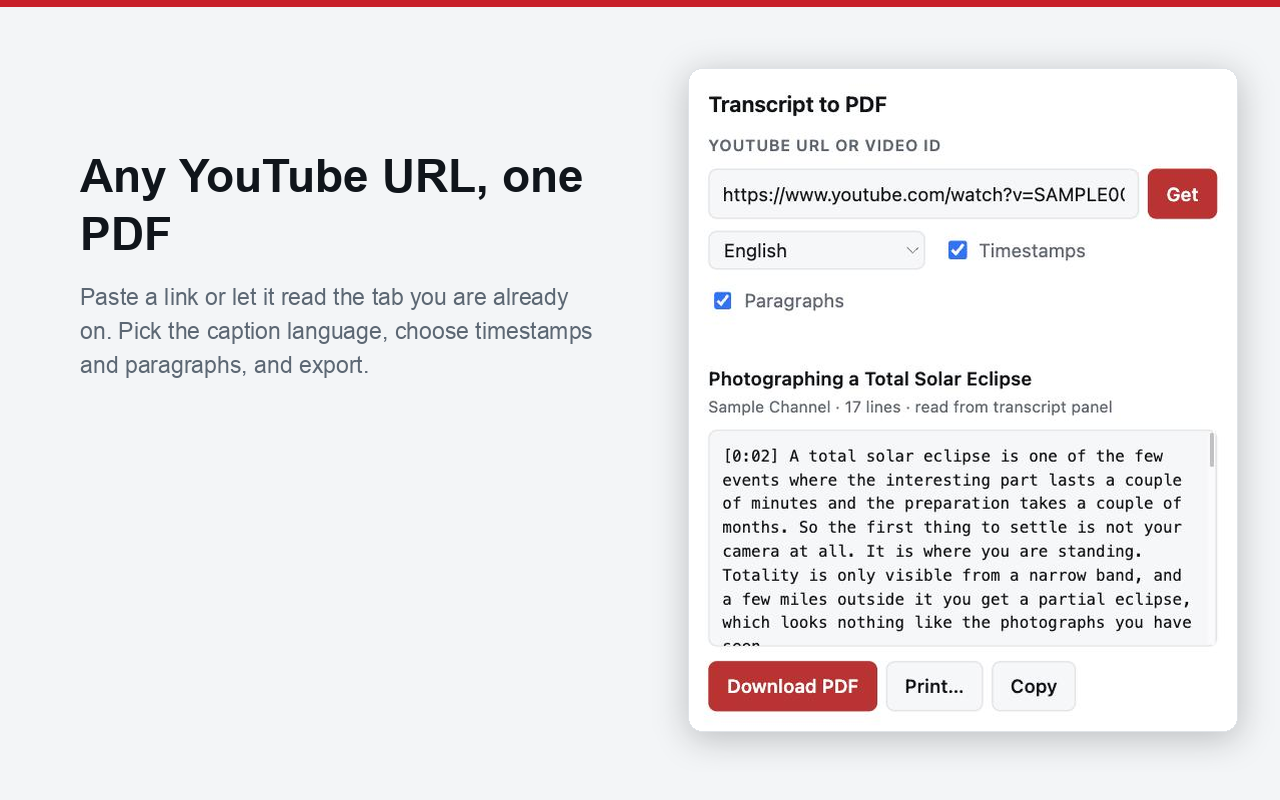
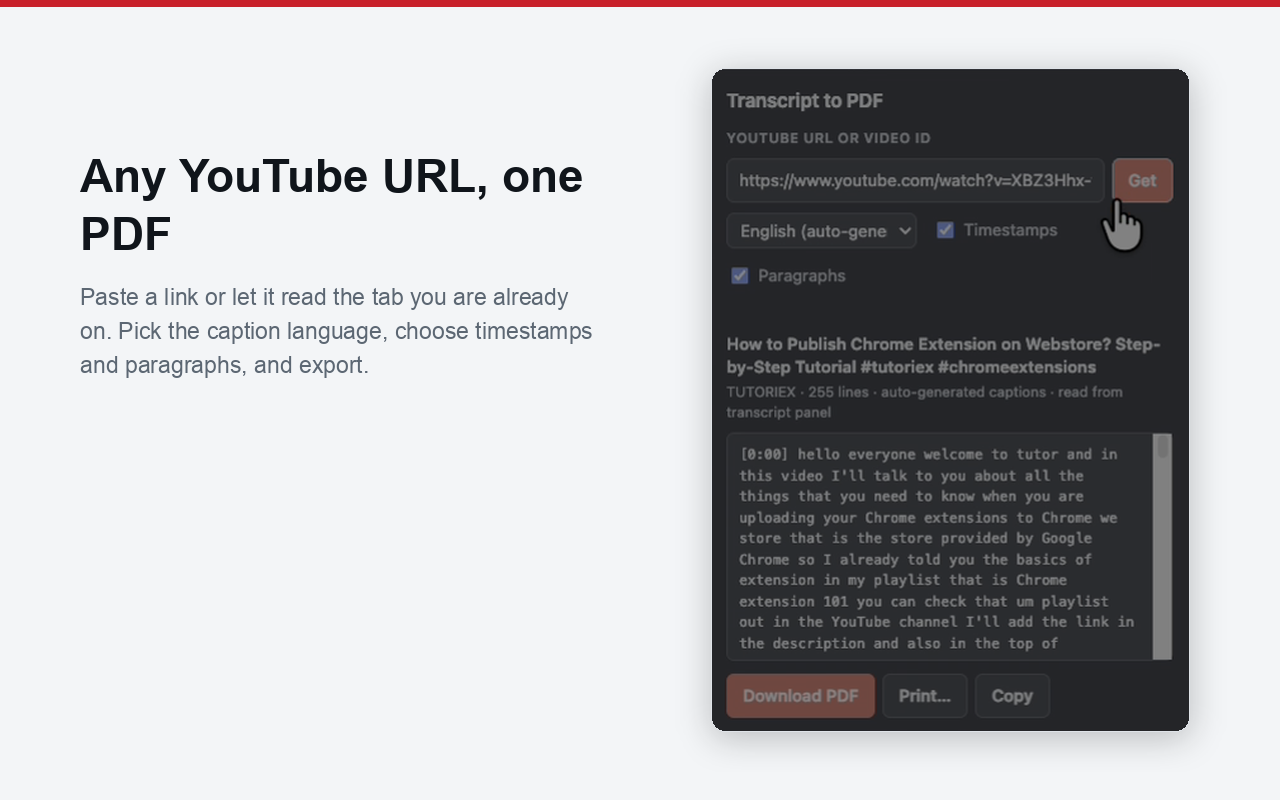
docs: use a live capture for screenshot 1 and add the submission runbook
The extension was run end to end against a real video and worked: the
transcript resolved through the transcript-panel strategy (255 lines,
auto-generated captions), the PDF downloaded, and the print path rendered. That
is the first verification of the assembled extension rather than its parts.

Screenshot 1 is now a frame from that run, cropped to the popup alone. The
composer prefers store-assets/raw-popup-live.png when present and falls back to
the harness render, so the pipeline still works without a browser pass.

The source recording and the full-window screenshot are deliberately not
committed. Both show the whole browser — tabs, bookmarks, profile, and
personalised recommendations — which does not belong in a public repository.
Only the cropped popup, which contains no personal data, is included.

One honest caveat recorded in CHROMEWEBSTORE.md: the recording was made with a
screen-capture overlay active, so the popup reads slightly muted against the
real UI. Calibrating it out was attempted and abandoned — the available
reference capture has the URL field focused and the popup in a different state,
so no reliable per-channel fit exists, and inventing one would misrepresent the
interface. The capture is authentic, just dim, and that is not a submission
blocker.

Adds docs/runbooks/chrome-web-store-submission.md: a field-by-field walkthrough
from developer registration through submission, with every value copy-paste
[…]

diff --git a/scripts/compose-store-screenshots.py b/scripts/compose-store-screenshots.py
@@ -6,6 +6,8 @@ browser screenshot pass, and lays them out on the 1280x800 canvas the store
 expects, along with the 440x280 small promo tile.
 
 Inputs (in ``store-assets/``):
+    raw-popup-live.png  optional hand-taken capture of the running popup;
+                        used for screenshot 1 when present
     raw-popup.jpg    full-viewport capture of harness-popup.html
     raw-viewer.jpg   full-viewport capture of harness-viewer.html
     raw-pdf.png      page 1 of sample-transcript.pdf, rendered by ``sips``
@@ -164,9 +166,19 @@ def flatten(image: Image.Image) -> Image.Image:
 
 
 def build_popup_shot() -> None:
-    """Screenshot 1: the popup, mid-export."""
-    # The popup renders at 988x1194 CSS pixels at the zoom used for capture.
-    art = require("raw-popup.jpg").crop(css_box(0, 0, 988, 1194))
+    """Screenshot 1: the popup, mid-export.
+
+    Prefers a capture of the running extension when one is available. Browser
+    automation cannot reach `chrome-extension://` URLs, so that capture has to
+    be taken by hand and dropped in as `raw-popup-live.png`; without it, the
+    harness render stands in.
+    """
+    live = ASSETS / "raw-popup-live.png"
+    if live.exists():
+        art = flatten(Image.open(live))
+    else:
+        # The popup renders at 988x1194 CSS pixels at the zoom used for capture.
+        art = require("raw-popup.jpg").crop(css_box(0, 0, 988, 1194))
     canvas = new_canvas()
 
     draw_copy(
@@ -176,7 +188,8 @@ def build_popup_shot() -> None:
         "language, choose timestamps and paragraphs, and export.",
         (80, 150, 520),
     )
-    paste_card(canvas, scaled(art, 664), (688, 68))
+    card = scaled(art, 664)
+    paste_card(canvas, card, (CANVAS[0] - card.width - 90, 68))
     canvas.convert("RGB").save(ASSETS / "screenshot-1-popup.png")
 
 

diff --git a/docs/runbooks/chrome-web-store-submission.md b/docs/runbooks/chrome-web-store-submission.md
@@ -1,0 +1,202 @@
+# Runbook: submitting to the Chrome Web Store
+
+Every value below is copy-paste ready from
+[CHROMEWEBSTORE.md](../../CHROMEWEBSTORE.md). Work through this in order; the
+dashboard will not let you submit until every required field is filled.
+
+**Budget about 45 minutes** for a first submission, most of it the one-time
+account setup. Review then takes anywhere from a few hours to a couple of weeks.
+
+---
+
+## Before you start
+
+You need:
+
+- A Google account you are happy to have associated with a published extension.
+- **US$5**, one time, non-refundable, for developer registration. A card is
+  required.
+- Two-factor authentication enabled on that Google account — the dashboard
+  requires it.
+
+---
+
+## Step 0 — Verify the build one last time
+
+```bash
+cd /Users/mitch/dev/youtube-transcript-to-pdf
+git pull
+npm run check
+```
+
+Expect: manifest OK, 31 tests passing, doc indexes OK.
+
+Then reload the unpacked extension at `chrome://extensions` and run it once
+against a real video. The packaged build is the same code, so if the unpacked
+one works, the zip works.
+
+Confirm the privacy policy is live — a dead URL is an automatic rejection:
+
+```bash
+curl -sI https://mithudso.github.io/youtube-transcript-to-pdf/PRIVACY.html | head -1
+```
+
+Expect `HTTP/2 200`.
+
+## Step 1 — Build the archive
+
+```bash
+npm run build
+unzip -l dist/youtube-transcript-to-pdf-1.0.0.zip
+```
+
+Expect 24 files: `manifest.json`, `icons/`, `src/`, `LICENSE`. If you see
+`docs/`, `test/`, `scripts/`, or `store-assets/`, stop — something changed in
+the packaging script.
+
+The file you will upload is:
+
+```
+dist/youtube-transcript-to-pdf-1.0.0.zip
+```
+
+## Step 2 — Register as a developer (one time)
+
+1. Go to <https://chrome.google.com/webstore/devconsole>.
+2. Sign in with the Google account you chose.
+3. Accept the Developer Agreement.
+4. Pay the US$5 registration fee.
+5. Under **Account** → set your **Publisher name** to `Mitchell Hudson` and
+   your **Contact email** to `mitch@tsiser.net`, then verify the email. Google
+   sends takedown and policy notices there, so it has to stay monitored.
+
+Publishing is blocked until the contact email is verified.
+
+## Step 3 — Create the item
+
+1. **Items** → **Add new item**.
+2. Drag in `dist/youtube-transcript-to-pdf-1.0.0.zip`.
+3. Wait for the upload to parse. It reads `manifest.json`, so the name and
+   version populate themselves.
+
+If it rejects the upload, the message names the manifest field at fault.
+
+## Step 4 — Store listing tab
+
+| Field | Value |
+| --- | --- |
+| Name | `Transcript to PDF for YouTube` (already filled from the manifest) |
+| Short description | The 117-character line under **Short Description** in CHROMEWEBSTORE.md |
+| Detailed description | The whole **Detailed Description** block. Paste as plain text — the store strips markdown, which is why it is already written without bullets |
+| Category | `Productivity` |
+| Language | `English` |
+
+Graphics, all from `store-assets/`:
+
+| Slot | File |
+| --- | --- |
+| Store icon (128×128) | `icons/icon-128.png` |
+| Screenshot 1 | `store-assets/screenshot-1-popup.png` |
+| Screenshot 2 | `store-assets/screenshot-2-pdf.png` |
+| Screenshot 3 | `store-assets/screenshot-3-viewer.png` |
+| Small promo tile (440×280) | `store-assets/promo-tile-small.png` |
+
+Leave the marquee tile empty; it is only used for featured placements.
+
+Additional fields:
+
+- **Homepage URL**: `https://github.com/mithudso/youtube-transcript-to-pdf`
+- **Support URL**: `https://github.com/mithudso/youtube-transcript-to-pdf/issues`
+- **Official YouTube video**: optional. The store takes a YouTube URL, not a
+  file, so the end-to-end recording would have to be uploaded to YouTube first.
+  Skip it for a first submission.
+
+## Step 5 — Privacy tab
+
+This is where submissions usually fail. Take it slowly.
+
+**Single purpose** — one sentence:
+
+```
+Exports the transcript of a YouTube video as a PDF file.
+```
+
+**Permission justifications** — one box per permission. Paste from the
+Permissions Justification table in CHROMEWEBSTORE.md. Every box needs a
+specific reason; "required for functionality" is rejected. The six are:
+
+`tabs`, `scripting`, `storage`, `downloads`, and host access to
+`https://www.youtube.com/*` and `https://m.youtube.com/*`.
+
+**Are you using remote code?** → **No, I am not using remote code.**
+
+Everything the extension runs is in the package. There are no dependencies, no
+CDN scripts, and no `eval`.
+
+**Data usage** — leave **every** checkbox unchecked. The extension collects
+nothing. Then tick all three certifications:
+
+- Data is not sold to third parties
+- Data is not used for purposes unrelated to the item's core functionality
+- Data is not used to determine creditworthiness or for lending purposes
+
+**Privacy policy URL**:
+
+```
+https://mithudso.github.io/youtube-transcript-to-pdf/PRIVACY.html
+```
+
+The policy text and these checkboxes must agree. Both say "nothing is
+collected", so they do.
+
+## Step 6 — Distribution tab
+
+- **Visibility**: Public
+- **Regions**: All regions
+- **Pricing**: Free
+
+## Step 7 — Submit
+
+1. Click **Submit for review**.
+2. If it offers **deferred publishing**, decide whether you want it to go live
+   automatically on approval or to publish it yourself. Automatic is fine here.
+3. Confirm.
+
+The item moves to **Pending review**.
+
+## Step 8 — After submitting
+
+- Review usually takes hours to days; extensions requesting broad permissions
+  take longer. This one requests narrow, well-justified permissions.
+- Decisions arrive at the contact email.
+- On approval, the listing goes live and the item gets a permanent extension ID
+  — **different from the unpacked development ID**.
+- Record the outcome in the Version History table in CHROMEWEBSTORE.md.
+
+## If it is rejected
+
+The rejection email names a policy section. Common causes for an extension
+shaped like this one, and what to do:
+
+| Rejection | Fix |
+| --- | --- |
+| Trademark / brand confusion | Already mitigated: the name is "for YouTube" rather than leading with it, and the icon is a document rather than a play triangle. If it still trips, the next lever is dropping "YouTube" from the name entirely. |
+| Permission not justified | Expand the specific box the email names. Say which user-visible feature breaks without it. |
+| Privacy policy mismatch | Re-read `PRIVACY.md` against the data-usage checkboxes. They must say the same thing. |
+| Screenshots do not show the product | Screenshot 1 is a capture of the running extension. If they want more, add a second live capture showing the saved PDF. |
+| Single purpose too broad | The stated purpose is already one sentence and narrow. Do not broaden it. |
+
+Fix, bump the version in **both** `manifest.json` and `package.json`, rebuild,
+and upload again. Record the rejection and the fix in the Rejection History
+table in CHROMEWEBSTORE.md.
+
+## Publishing an update later
+
+1. Bump the version in `manifest.json` and `package.json`.
+2. `npm run check && npm run build`
+3. Dashboard → the item → **Package** → upload the new zip.
+4. Update anything on the listing that changed, especially permissions.
+5. Submit for review again.
+
+The version must be strictly higher than the published one, or the upload is
+rejected.

diff --git a/CHROMEWEBSTORE.md b/CHROMEWEBSTORE.md
@@ -72,7 +72,7 @@ All generated by `scripts/build-store-assets.mjs` followed by
 | Asset | Dimensions | Status | Filename |
 |-------|-----------|--------|----------|
 | Store Icon [REQUIRED] | 128×128 PNG | ✅ Ready | `icons/icon-128.png` |
-| Screenshot 1 [REQUIRED] | 1280×800 | ✅ Ready | `store-assets/screenshot-1-popup.png` |
+| Screenshot 1 [REQUIRED] | 1280×800 | ✅ Ready (live capture) | `store-assets/screenshot-1-popup.png` |
 | Screenshot 2 [RECOMMENDED] | 1280×800 | ✅ Ready | `store-assets/screenshot-2-pdf.png` |
 | Screenshot 3 [RECOMMENDED] | 1280×800 | ✅ Ready | `store-assets/screenshot-3-viewer.png` |
 | Screenshot 4 | 1280×800 | ⬜ Not created | |
@@ -94,17 +94,21 @@ earlier play-triangle mark that read as YouTube's logo.
 3. **The Print path.** The printable viewer, which is how non-Latin scripts are
    exported.
 
-**Provenance, and what to do before submitting.** The screenshots render the
-extension's own markup, stylesheets, and PDF writer, so the UI and the document
-are genuine output. The transcript text is authored sample content
-(`store-assets/sample-transcript.json`), written for this repository so the
-store assets carry no third-party material. The screenshots are produced from
-harness pages rather than a running extension, because a Chrome popup cannot be
-captured from an ordinary tab.
+**Provenance.** Screenshot 1 is a capture of the **running extension**, taken
+by hand from a real export and cropped to the popup alone — no browser chrome,
+no tabs, no personalised page content. It shows a genuine run: 255 caption
+lines, auto-generated captions, resolved via the transcript panel.
 
-That is accurate but slightly indirect. Before submitting, recapture at least
-screenshot 1 from a live install against a real video, so the listing shows the
-extension exactly as a user meets it.
+Screenshots 2 and 3 are rendered from the extension's own markup, stylesheets,
+and PDF writer, so the document and the print view are genuine output. Their
+transcript text is authored sample content
+(`store-assets/sample-transcript.json`), written for this repository so the
+assets carry no third-party material.
+
+One quality nit on screenshot 1: the source recording was made with a
+screen-capture overlay active, so the popup's colours read slightly muted
+against the real UI. It is authentic, just dim. A clean re-capture of the
+loaded popup would be a small improvement; it is not a submission blocker.
 
 ## Permissions Justification
 
@@ -208,8 +212,16 @@ All cleared.
    first-party; "for YouTube" reads as compatibility, which is the accepted
    construction. Changed in `manifest.json`, this file, `README.md`,
    `PRIVACY.md`, `docs/INSTALLATION.md`, and the PDF `Producer` string.
-4. ~~**Recapture screenshot 1 from a live install.**~~ Done — see
-   [Screenshot Notes](#screenshot-notes).
+4. ~~**Recapture screenshot 1 from a live install.**~~ Done. The extension was
+   run end to end against a real video and the popup captured live; screenshot
+   1 is that capture. See [Screenshot Notes](#screenshot-notes).
+
+### Verified end to end
+
+The extension was run against a real video before submission: the transcript
+resolved via the transcript-panel strategy (255 lines, auto-generated
+captions), the PDF downloaded, and the print path rendered. Screenshot 1 is a
+capture from that run.
 
 ### Known Issues / Limitations
 

diff --git a/docs/codebase-overview.md b/docs/codebase-overview.md
@@ -130,6 +130,7 @@ the filename.
 | `docs/codebase-overview.md` | This file. |
 | `docs/high_signal_file_index.json` | Machine-readable retrieval index. |
 | `docs/runbooks/transcript-panel-broke.md` | Diagnosing and fixing a YouTube markup change. |
+| `docs/runbooks/chrome-web-store-submission.md` | Field-by-field walkthrough of a store submission, and what to do if it is rejected. |
 | `docs/runbooks/release.md` | Cutting a release. |
 | `docs/repo-bootstrap-audit-2026-08-27.md` | Standard-compliance audit and the deliberate exclusions. |
 
@@ -154,6 +155,7 @@ packaged archive — `scripts/package-extension.mjs` ships only `manifest.json`,
 | `store-assets/screenshot-2-pdf.png` | 1280×800 — the exported document. |
 | `store-assets/screenshot-3-viewer.png` | 1280×800 — the Print path. |
 | `store-assets/promo-tile-small.png` | 440×280 small promo tile. |
+| `store-assets/raw-popup-live.png` | A hand-taken capture of the running popup, cropped to the popup alone. Preferred over the harness render for screenshot 1. |
 | `store-assets/raw-popup.jpg`, `raw-viewer.jpg`, `raw-pdf.png` | The captures the composer crops from, kept so the screenshots can be rebuilt without a browser pass. |
 
 Regenerate the sources with `npm run store:assets`, then recompose with

diff --git a/docs/runbooks/release.md b/docs/runbooks/release.md
@@ -85,12 +85,14 @@ email are set, the icon is now a document mark rather than a play triangle, and
 the extension was renamed to "Transcript to PDF for YouTube" so it no longer
 leads with a trademark.
 
-One item stays open by nature: **screenshot 1 is a harness render, not a capture
-of the running extension.** Browser automation cannot reach `chrome-extension://`
-URLs, so a live popup capture has to be taken by hand — open the popup, take a
-screenshot, drop it in `store-assets/` as `raw-popup-live.png`, and point
-`build_popup_shot()` at it. The harness render is accurate, but a live capture
-is what the store guidelines mean by showing the extension in action.
+Screenshot 1 is now a capture of the running extension. Browser automation
+cannot reach `chrome-extension://` URLs, so that capture has to be taken by
+hand: open the popup with a transcript loaded, screenshot it, crop to the popup
+alone, and save it as `store-assets/raw-popup-live.png`. The composer picks it
+up automatically and falls back to the harness render when it is absent.
+
+For the full submission procedure, see
+[chrome-web-store-submission.md](chrome-web-store-submission.md).
 
 Confirm the privacy policy is still live before every submission — a dead URL
 is an automatic rejection:
